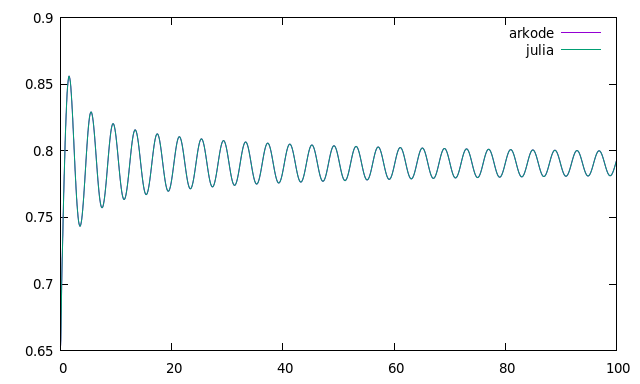
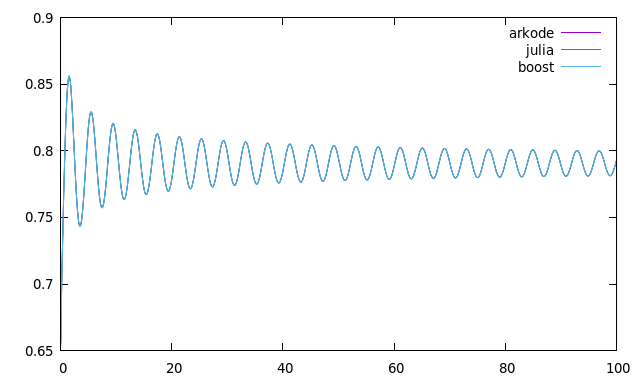
Update boost numerics and readme. Change boost stepper type

diff --git a/src/boost/main.cpp b/src/boost/main.cpp
@@ -27,12 +27,12 @@ int main() {
     double D0 = 0.6;
     double Df = 0.8;
     double D = 10.0;
-    int Nspins = 1000;
+    int Nspins = 50000;
 
     swave_quench swq(D0, Df, D, Nspins);
 
     double t0 = 0.0;
-    double tf = 10.0;
+    double tf = 100.0;
     int num_time_steps = 10000;
     double dt = tf / num_time_steps;
     double reltol = 1.0e-4;
@@ -57,8 +57,8 @@ int main() {
     auto start_time = std::chrono::steady_clock::now();
     //size_t steps = integrate(swq, s0, t0, tf, dt, push_back_delta_and_time(swq, delta, times));
     //size_t steps = integrate_times(make_dense_output<error_stepper_type>(abstol, reltol), swq, s0, t0, tf, dt, push_back_delta_and_time(swq, delta,times));
-    size_t steps = integrate_adaptive(make_controlled<error_stepper_type>(abstol, reltol), swq, s0, t0, tf, dt, push_back_delta_and_time(swq, delta,times));
-    //size_t steps = integrate_adaptive(make_dense_output<error_stepper_type>(abstol, reltol), swq, s0, t0, tf, dt, push_back_delta_and_time(swq, delta,times));
+    //size_t steps = integrate_adaptive(make_controlled<error_stepper_type>(abstol, reltol), swq, s0, t0, tf, dt, push_back_delta_and_time(swq, delta,times));
+    size_t steps = integrate_adaptive(make_dense_output<error_stepper_type>(abstol, reltol), swq, s0, t0, tf, dt, push_back_delta_and_time(swq, delta,times));
     auto end_time = std::chrono::steady_clock::now();
 
     std::cout << "#Elapsed time: " << std::chrono::duration<double>(end_time - start_time).count() << " seconds\n";

diff --git a/src/boost/swave.cpp b/src/boost/swave.cpp
@@ -12,7 +12,7 @@ void swave_quench::set_initial_state(std::vector<double> &s) {
     }
 }
 
-inline double swave_quench::calc_delta(const std::vector<double> &s) {
+double swave_quench::calc_delta(const std::vector<double> &s) {
     double delta = 0.0;
     for (int i = 0; i < Nspins_; i++) {
         delta += s[i];

diff --git a/README.md b/README.md
@@ -4,12 +4,11 @@
 
 ## Results
 An implementation of the same program simulating the BCS s-wave quench dynamics
-in both SUNDIALS ARKODE and Julia DifferentialEquations.jl. The performance of
-the Julia version is significantly faster for the same algorithm. The
-benchmarks for the ODE solve using the Dormand Prince algorithm in each swuite
-(DP5() in Julia and DORMAND_PRINCE_7_4_5 in ARKODE). I ran each of them twice
-in succession and took the lowest time:
+in different ODE solvers. The amount of time taken to complete for each solver is listed.
+Each solver is using the Dormand Prince algorithm.
 
-Julia (1 core): 16.526554 seconds (17.12 M allocations: 814.778 MiB, 1.40% gc time)
+Julia DP5() (1 core): 16.526554 seconds (17.12 M allocations: 814.778 MiB, 1.40% gc time)
 
-ARKODE (4 cores openmp nvector): 55 seconds
+ARKODE DORMAND_PRINCE_7_4_5 (4 cores openmp nvector): 55 seconds
+
+boost::numeric::odeint (1 cores openmp nvector): 19.4312 seconds
